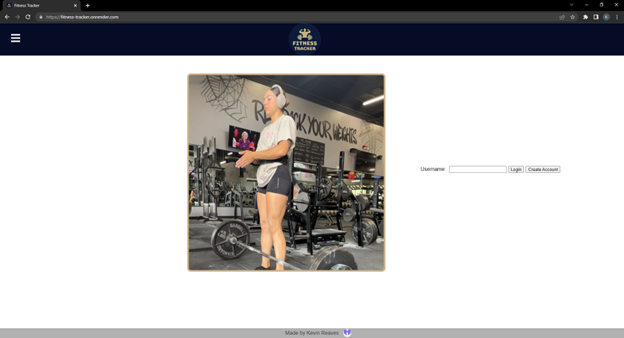
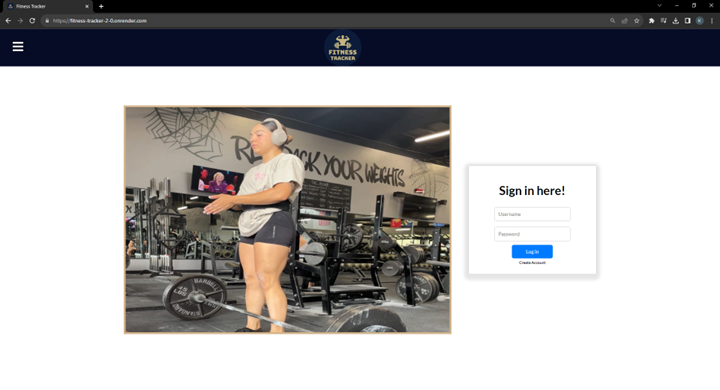
Update Resume and Fitness

diff --git a/index.html b/index.html
@@ -152,7 +152,7 @@
               </article>
               <article>
                 <a
-                  href="https://fitness-tracker.onrender.com/user"
+                  href="https://fitness-tracker-2-0.onrender.com/"
                   class="image"
                   ><img src="images/Fitness.png" alt=""
                 /></a>
@@ -160,10 +160,9 @@
                   <h4>Fitness Tracker</h4>
                   <p>
                     A full-stack app that allows the user to track their
-                    recorded workouts in a journal, search for workouts that
-                    will displays a gif or image on how to perform workout and
-                    will generate a random motivational quote and track their
-                    recorded weights and display the change in a chart.
+                    recorded workouts and food diaries in a journal, generate a
+                    random motivational quote and track their recorded weights
+                    and see stastics on the home user friendly dashboard.
                   </p>
                   <div style="display: flex; justify-content: center">
                     <a href="https://github.com/Reaveskev/React-MVP">
